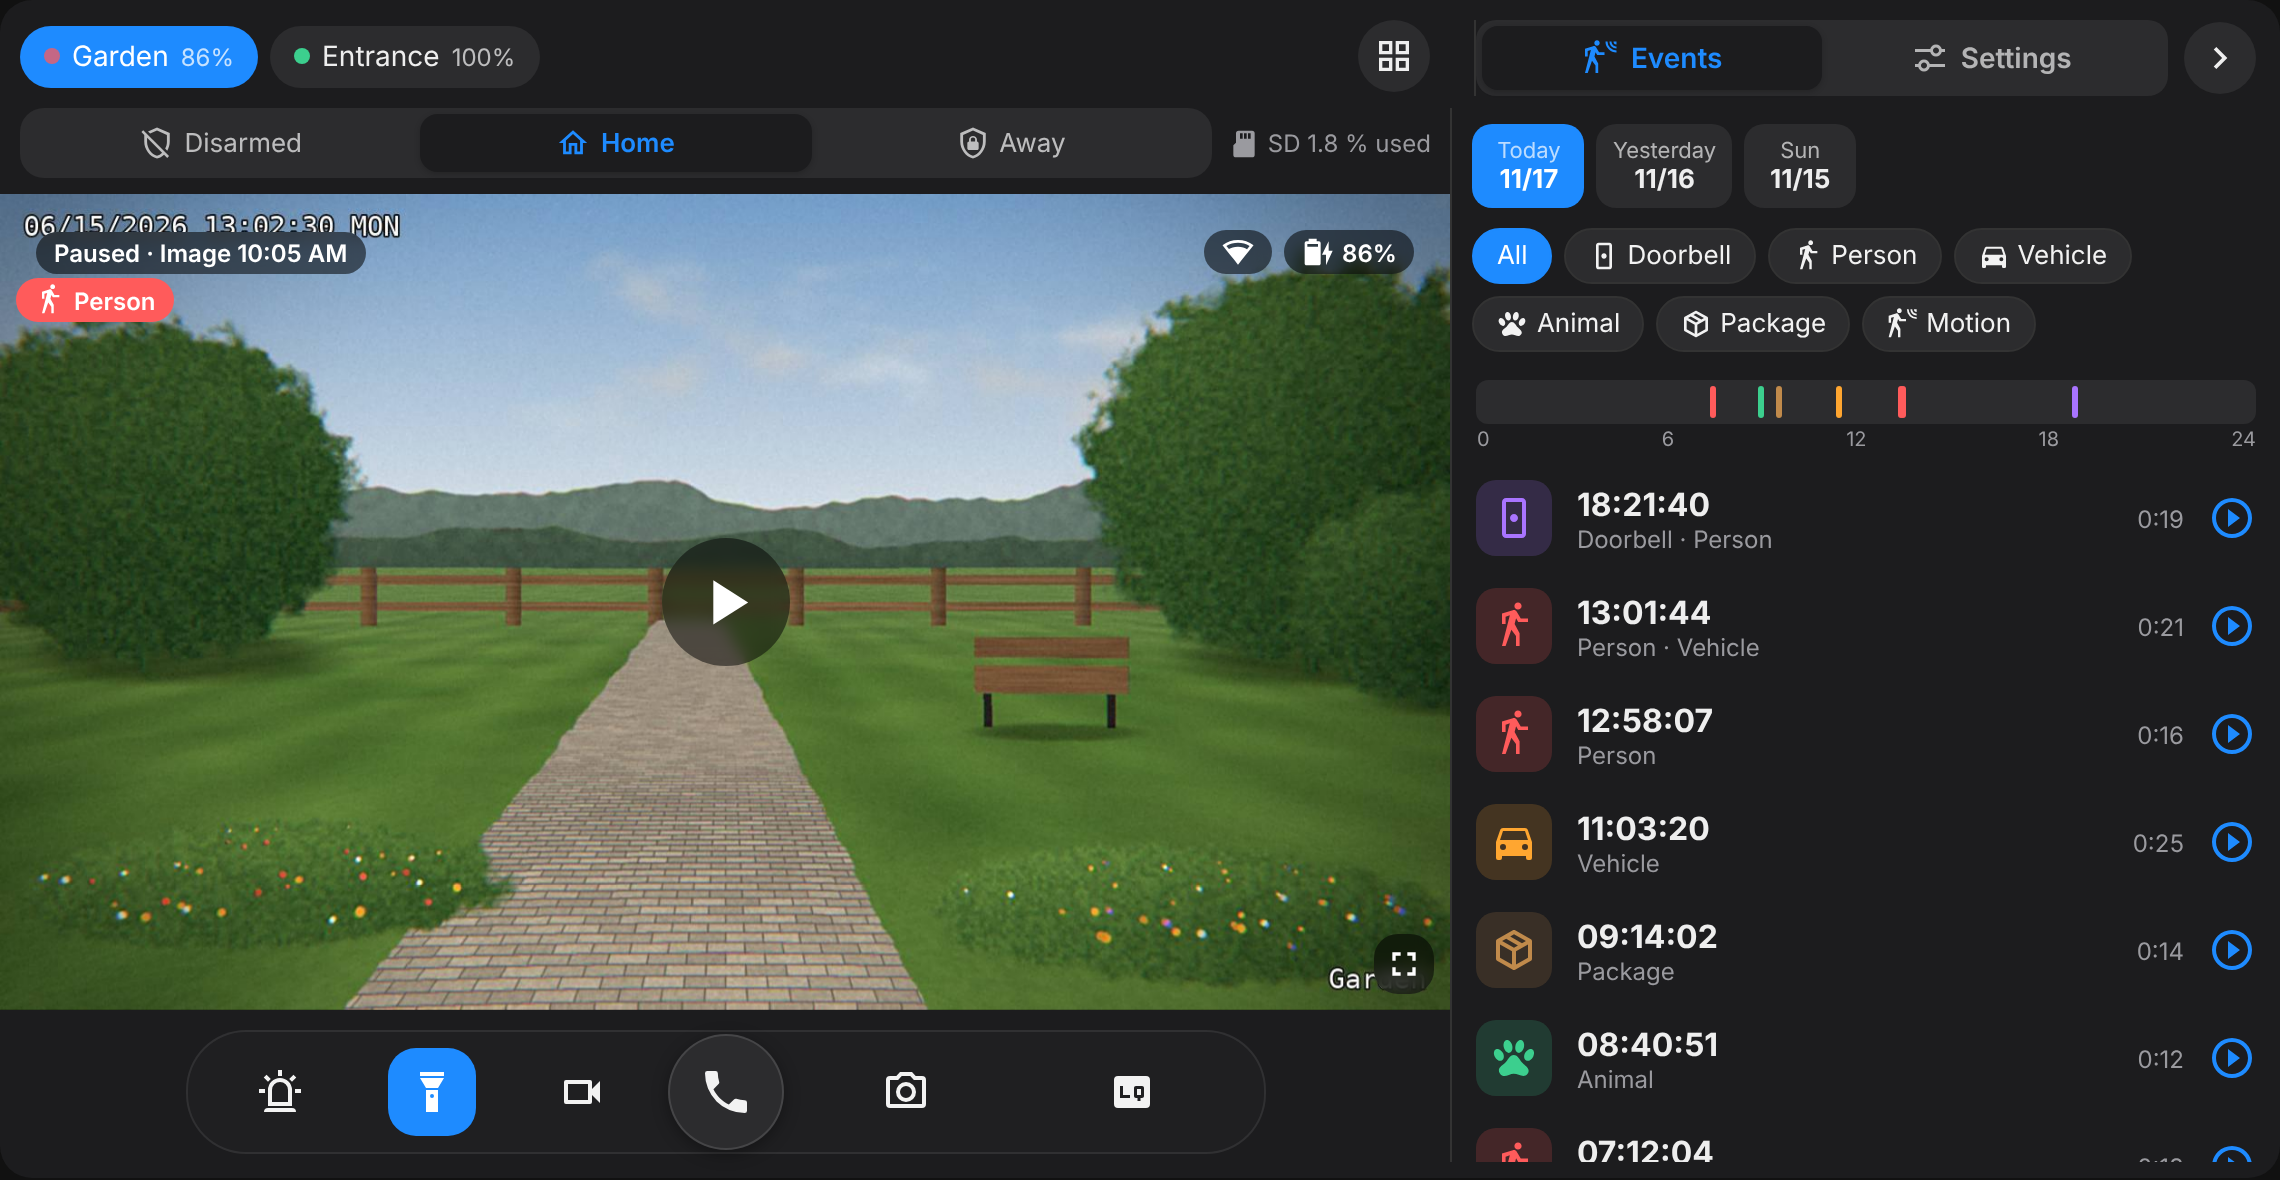
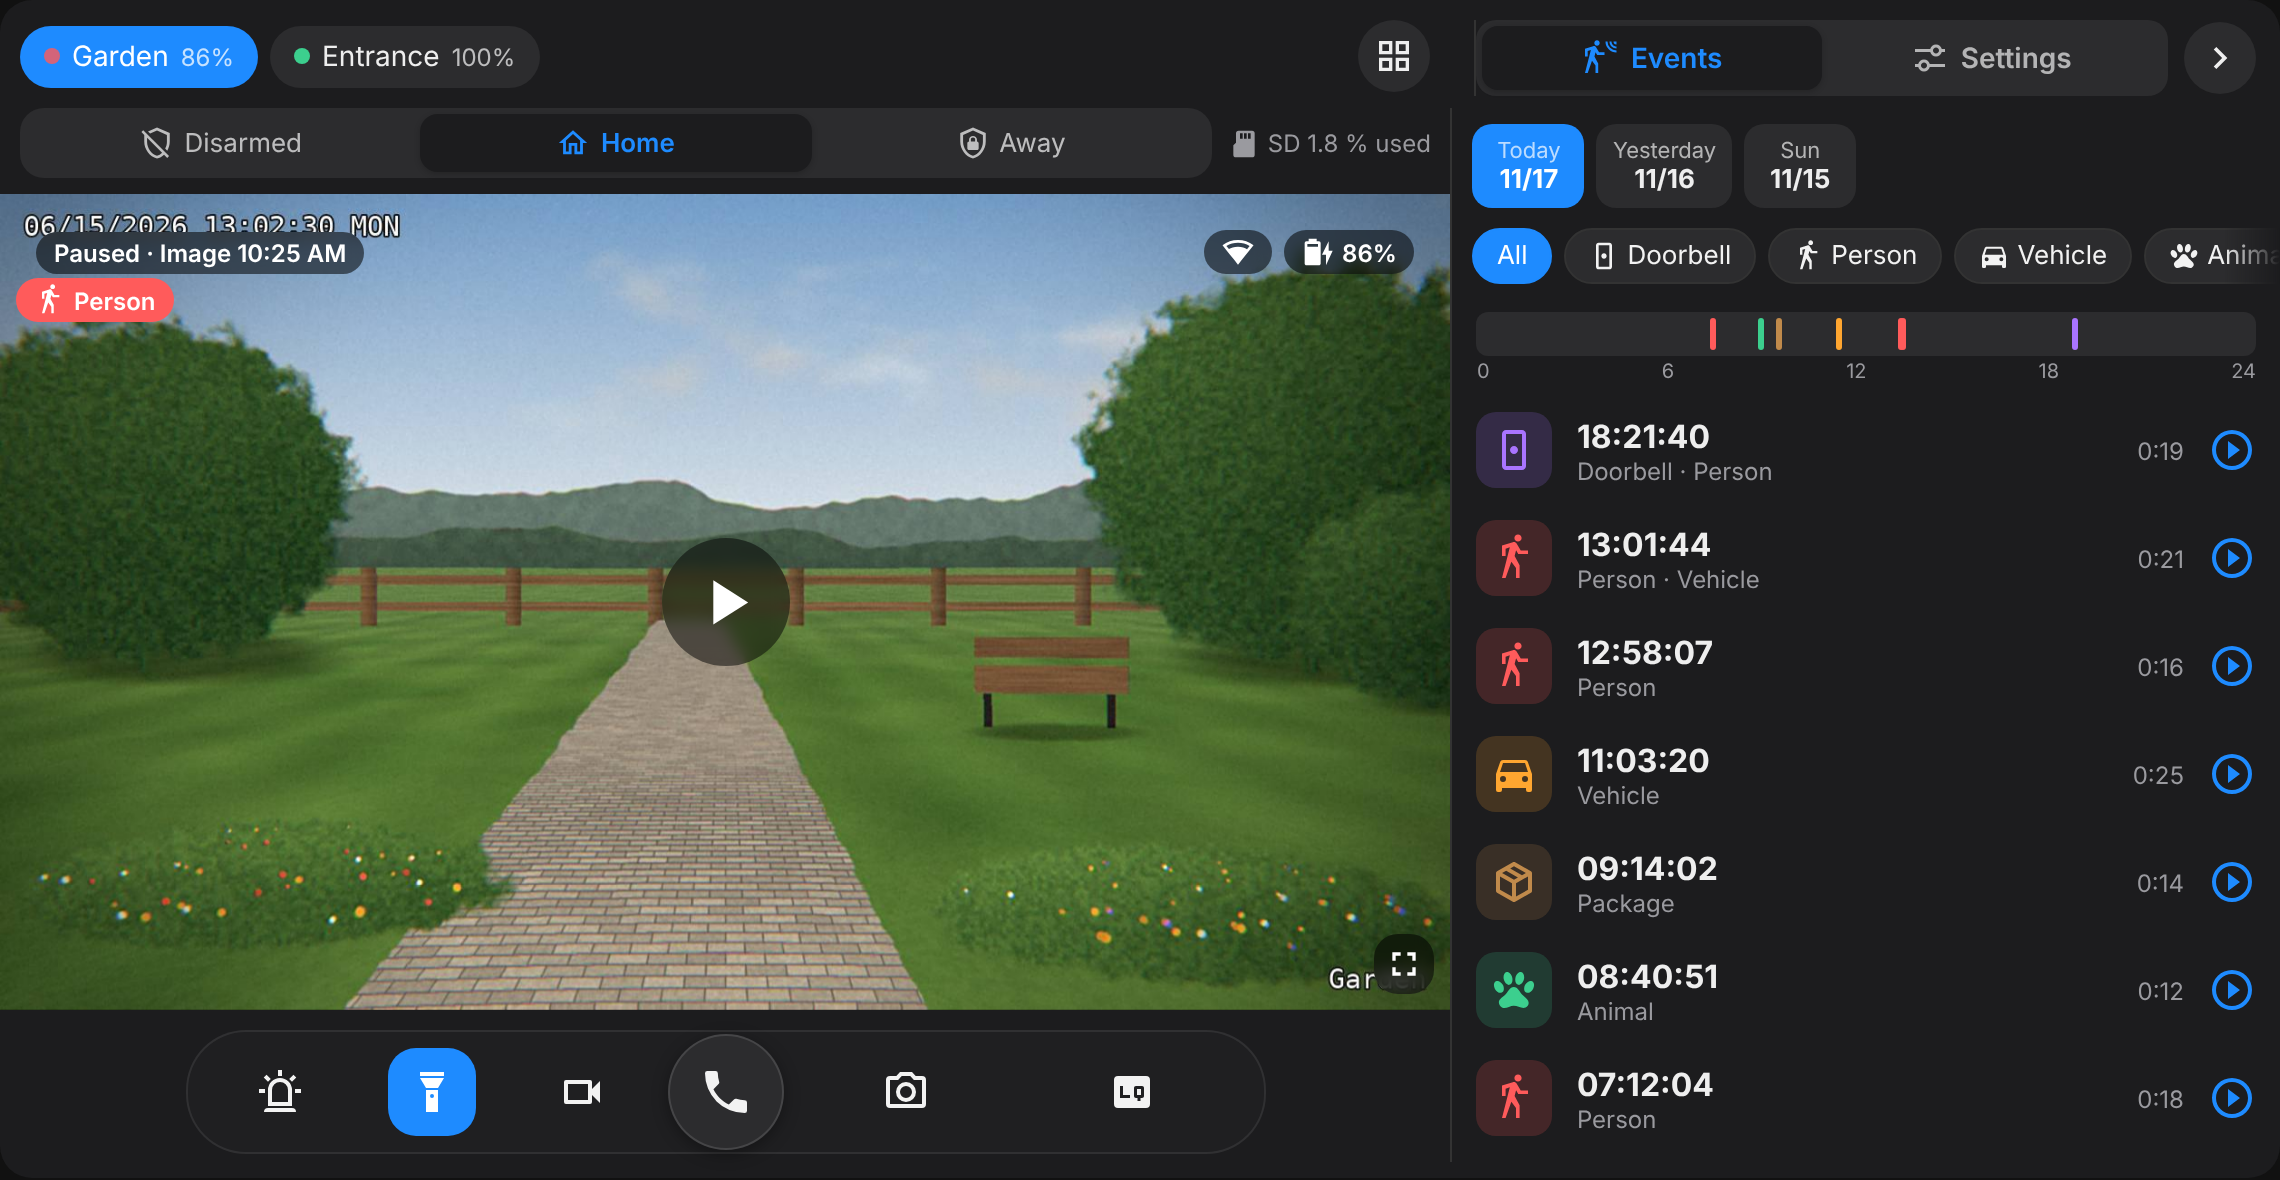
Side panel: collapse works with layout left, event filters on one scrollable line

diff --git a/dist/reolink-app-card.js b/dist/reolink-app-card.js
@@ -2874,7 +2874,6 @@ ha-card.lay-side .settings { grid-row: 3 / span 5; align-self: stretch; contain:
 ha-card.lay-side > #pane-play { grid-row: 3 / span 5; align-self: stretch; contain: size; overflow-y: auto; }
 ha-card.lay-right > .seg, ha-card.lay-right > .phead, ha-card.lay-right .settings, ha-card.lay-right > #pane-play { border-left: 1px solid var(--divider-color, rgba(255,255,255,.08)); }
 ha-card.lay-left > .seg, ha-card.lay-left > .phead, ha-card.lay-left .settings, ha-card.lay-left > #pane-play { border-right: 1px solid var(--divider-color, rgba(255,255,255,.08)); }
-ha-card.lay-side .filters { flex-wrap: wrap; }
 ha-card.lay-side > .dlg { grid-column: 1 / -1; }
 /* Seitenleiste als Slide-Panel: Ereignisse oder Einstellungen, zuklappbar */
 .phead { display: none; align-items: center; gap: 8px; }
@@ -2890,8 +2889,9 @@ ha-card.lay-side > .phead, ha-card.lay-side .settings, ha-card.lay-side > #pane-
 ha-card.lay-left > .phead, ha-card.lay-left .settings, ha-card.lay-left > #pane-play { animation-name: rac-slide-l; }
 @keyframes rac-slide { from { opacity: 0; transform: translateX(24px); } }
 @keyframes rac-slide-l { from { opacity: 0; transform: translateX(-24px); } }
-ha-card.lay-side.pan-none { grid-template-columns: minmax(0, 1fr); }
-ha-card.lay-side.pan-none > *, ha-card.lay-side.pan-none .barwrap, ha-card.lay-side.pan-none .ptz { grid-column: 1; }
+/* Zugeklappt: die Spalte des Panels bleibt mit Breite 0 stehen, damit die Zuordnung der Spalten (rechts/links) gleich bleibt */
+ha-card.lay-side.pan-none { grid-template-columns: minmax(0, 1fr) 0; }
+ha-card.lay-left.pan-none { grid-template-columns: 0 minmax(0, 1fr); }
 ha-card.lay-side.playing .barwrap, ha-card.lay-side.playing .ptz { display: none; }
 .pedge { display: none; position: absolute; right: 0; top: 50%; transform: translateY(-50%); z-index: 4; width: 28px; height: 64px; border-radius: 12px 0 0 12px;
   background: rgba(0,0,0,.45); color: #fff; place-items: center; backdrop-filter: blur(6px); -webkit-backdrop-filter: blur(6px); }

diff --git a/src/styles.js b/src/styles.js
@@ -234,7 +234,6 @@ ha-card.lay-side .settings { grid-row: 3 / span 5; align-self: stretch; contain:
 ha-card.lay-side > #pane-play { grid-row: 3 / span 5; align-self: stretch; contain: size; overflow-y: auto; }
 ha-card.lay-right > .seg, ha-card.lay-right > .phead, ha-card.lay-right .settings, ha-card.lay-right > #pane-play { border-left: 1px solid var(--divider-color, rgba(255,255,255,.08)); }
 ha-card.lay-left > .seg, ha-card.lay-left > .phead, ha-card.lay-left .settings, ha-card.lay-left > #pane-play { border-right: 1px solid var(--divider-color, rgba(255,255,255,.08)); }
-ha-card.lay-side .filters { flex-wrap: wrap; }
 ha-card.lay-side > .dlg { grid-column: 1 / -1; }
 /* Seitenleiste als Slide-Panel: Ereignisse oder Einstellungen, zuklappbar */
 .phead { display: none; align-items: center; gap: 8px; }
@@ -250,8 +249,9 @@ ha-card.lay-side > .phead, ha-card.lay-side .settings, ha-card.lay-side > #pane-
 ha-card.lay-left > .phead, ha-card.lay-left .settings, ha-card.lay-left > #pane-play { animation-name: rac-slide-l; }
 @keyframes rac-slide { from { opacity: 0; transform: translateX(24px); } }
 @keyframes rac-slide-l { from { opacity: 0; transform: translateX(-24px); } }
-ha-card.lay-side.pan-none { grid-template-columns: minmax(0, 1fr); }
-ha-card.lay-side.pan-none > *, ha-card.lay-side.pan-none .barwrap, ha-card.lay-side.pan-none .ptz { grid-column: 1; }
+/* Zugeklappt: die Spalte des Panels bleibt mit Breite 0 stehen, damit die Zuordnung der Spalten (rechts/links) gleich bleibt */
+ha-card.lay-side.pan-none { grid-template-columns: minmax(0, 1fr) 0; }
+ha-card.lay-left.pan-none { grid-template-columns: 0 minmax(0, 1fr); }
 ha-card.lay-side.playing .barwrap, ha-card.lay-side.playing .ptz { display: none; }
 .pedge { display: none; position: absolute; right: 0; top: 50%; transform: translateY(-50%); z-index: 4; width: 28px; height: 64px; border-radius: 12px 0 0 12px;
   background: rgba(0,0,0,.45); color: #fff; place-items: center; backdrop-filter: blur(6px); -webkit-backdrop-filter: blur(6px); }

diff --git a/test/browser/layout.test.js b/test/browser/layout.test.js
@@ -110,6 +110,28 @@ test('Seitenleiste: Einstellungen als eigenes Panel, zuklappen und am Bildrand w
   await c.close();
 });
 
+test('Seitenleiste links zugeklappt: Bild und Knöpfe über die ganze Breite', async () => {
+  const c = await open(1100, 'left', { storage: { 'reolink-app-card:panel': 'none' } });
+  const g = await geo(c);
+  assert.equal(g.edge, true);
+  assert.ok(g.stage.width > 1000, `Bild ${g.stage.width}px`);
+  assert.ok(g.bar.top >= g.stage.bottom - 1, 'Knöpfe unter dem Bild');
+  assert.ok(Math.abs((g.bar.left + g.bar.right) / 2 - (g.stage.left + g.stage.right) / 2) < 2, 'Knöpfe mittig unter dem Bild');
+  await c.close();
+});
+
+test('Seitenleiste: Filter in einer Zeile, seitlich scrollbar', async () => {
+  const c = await open(1100);
+  await wait(300);
+  const r = await c.run(() => {
+    const f = window.__card.shadowRoot.getElementById('filters');
+    const tops = new Set([...f.querySelectorAll('.chip')].map((b) => Math.round(b.getBoundingClientRect().top)));
+    return { rows: tops.size, wrap: getComputedStyle(f).flexWrap };
+  });
+  assert.deepEqual(r, { rows: 1, wrap: 'nowrap' });
+  await c.close();
+});
+
 test('Seitenleiste: zugeklappt bleibt zugeklappt (gespeichert) und panel: settings als Start', async () => {
   let c = await open(1100, null, { storage: { 'reolink-app-card:panel': 'none' } });
   let g = await geo(c);
